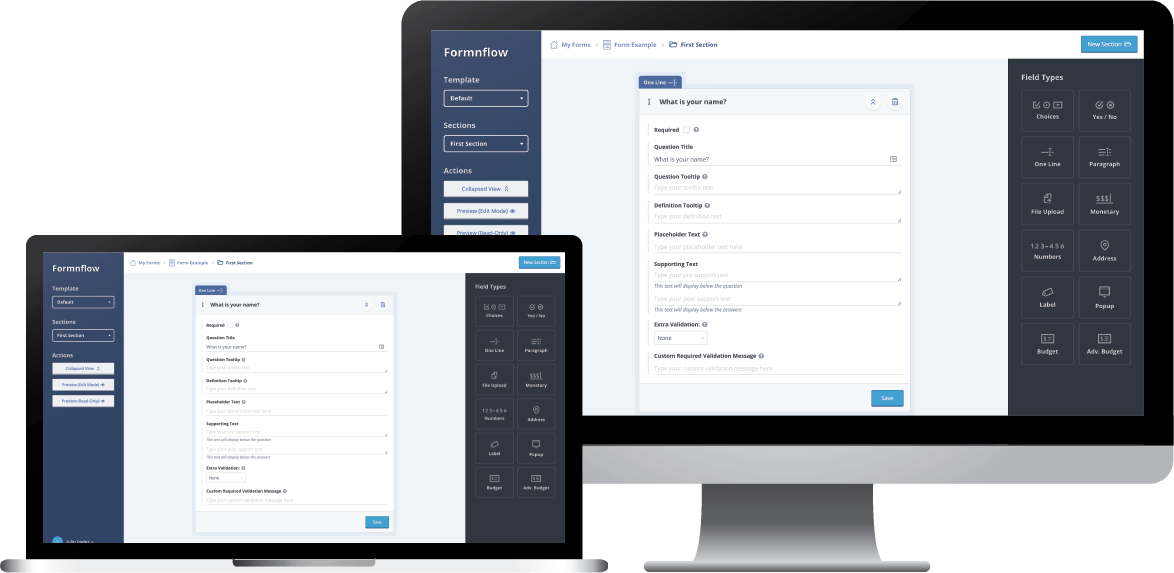
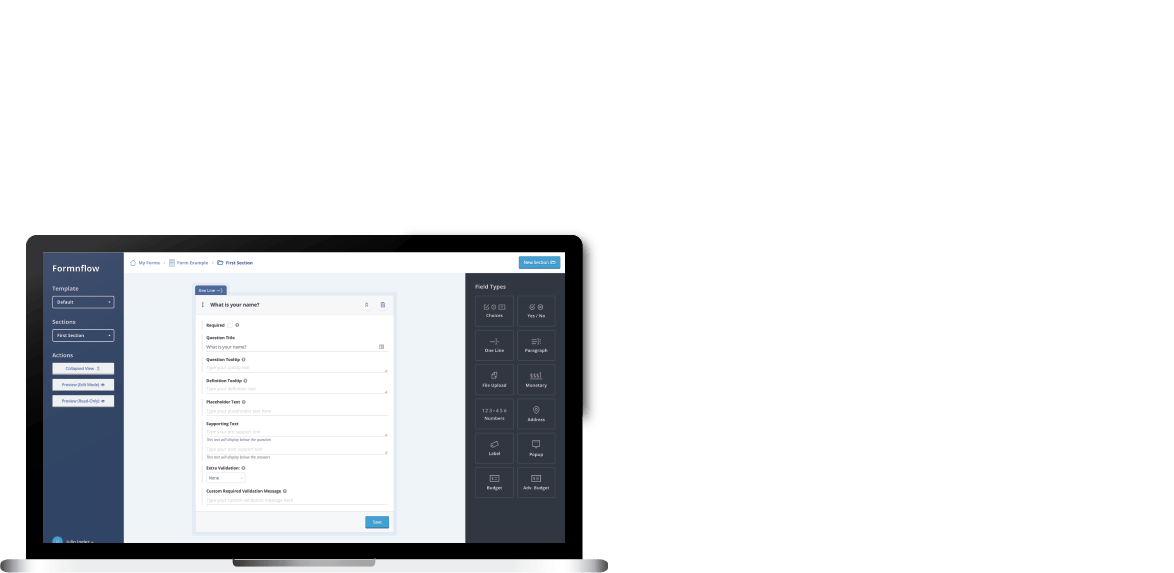
Split FNF Hero Into 2 Images

Changed region(s): [[0.3373, 0.0, 1.0, 1.0]]

diff --git a/app/assets/stylesheets/components/project-display.scss b/app/assets/stylesheets/components/project-display.scss
@@ -125,7 +125,7 @@
 
       label.project-display-label{
         font-size: 20px;
-        color: $fnf-secondary-x-l;
+        color: $fnf-secondary-x-x-x-x-l;
         text-shadow: 1px 1px 2px $gray-x-x-x-d;
         -webkit-font-smoothing: antialiased;
         -moz-osx-font-smoothing: grayscale;
@@ -156,11 +156,40 @@
       height: auto;
       transition: all 0.15s ease-out;
 
+      &:hover{
+        img.project-display-hero-image{
+          &:first-child{
+            left: -30%;
+          }
+        }
+      }
+
       img.project-display-hero-image{
         position: relative;
         width: 100%;
         height: auto;
         align-self: center;
+        transition: all 0.15s ease-out;
+
+        &:first-child{
+          z-index: 1;
+        }
+
+        &:last-child{
+          position: absolute;
+          left: 0;
+          top: 0;
+        }
+      }
+
+      &::before{
+        content: '';
+        position: absolute;
+        bottom: -10px;
+        left: -10%;
+        width: 100%;
+        height: 20px;
+        background: radial-gradient(closest-side, rgba(10,10,10,0.3), rgba(255,0,0,0));
       }
     }
   }

diff --git a/app/assets/stylesheets/settings/colors.scss b/app/assets/stylesheets/settings/colors.scss
@@ -42,6 +42,8 @@ $fnf-secondary: #00a3d8 !default;
 $fnf-secondary-l: lighten($fnf-secondary, 5%) !default;
 $fnf-secondary-x-l: lighten($fnf-secondary, 10%) !default;
 $fnf-secondary-x-x-l: lighten($fnf-secondary, 15%) !default;
+$fnf-secondary-x-x-x-l: lighten($fnf-secondary, 25%) !default;
+$fnf-secondary-x-x-x-x-l: lighten($fnf-secondary, 35%) !default;
 $fnf-secondary-d: darken($fnf-secondary, 5%) !default;
 $fnf-secondary-x-d: darken($fnf-secondary, 10%) !default;
 $fnf-secondary-x-x-d: darken($fnf-secondary, 15%) !default;
